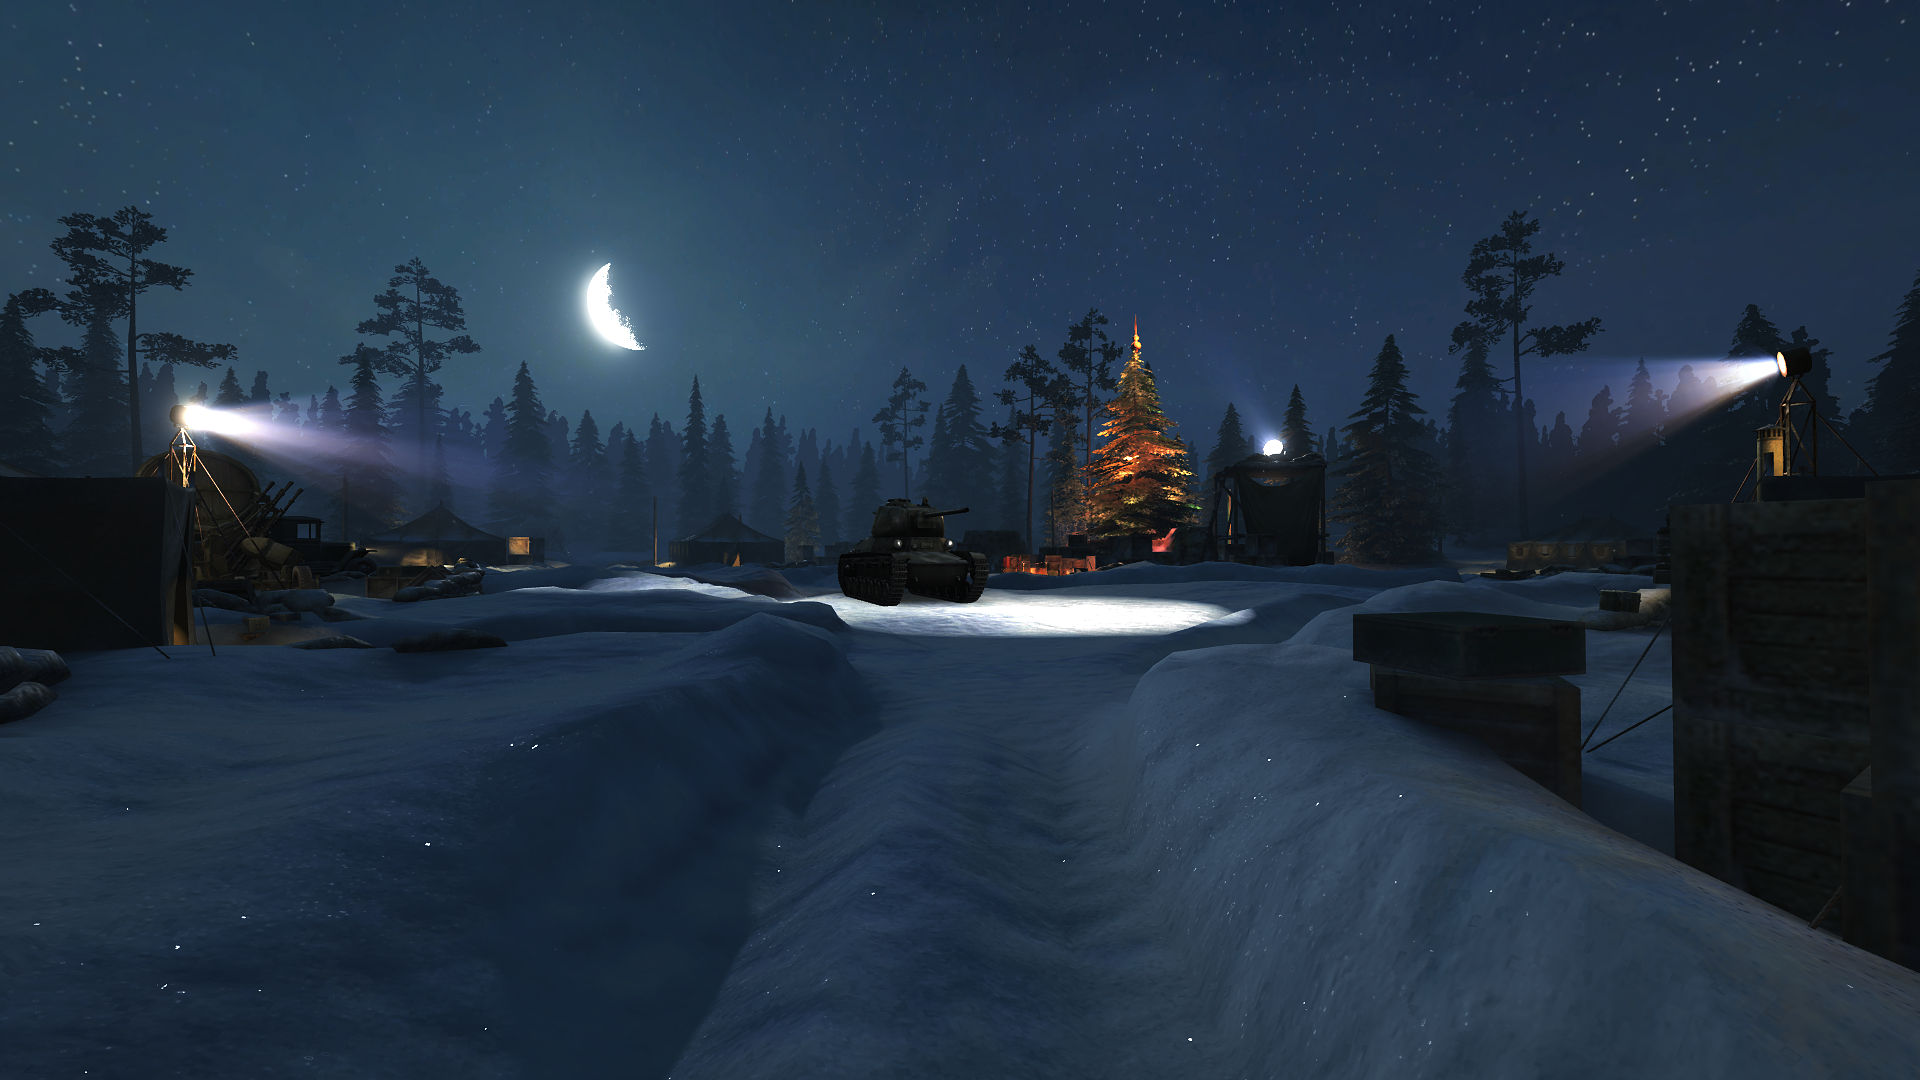
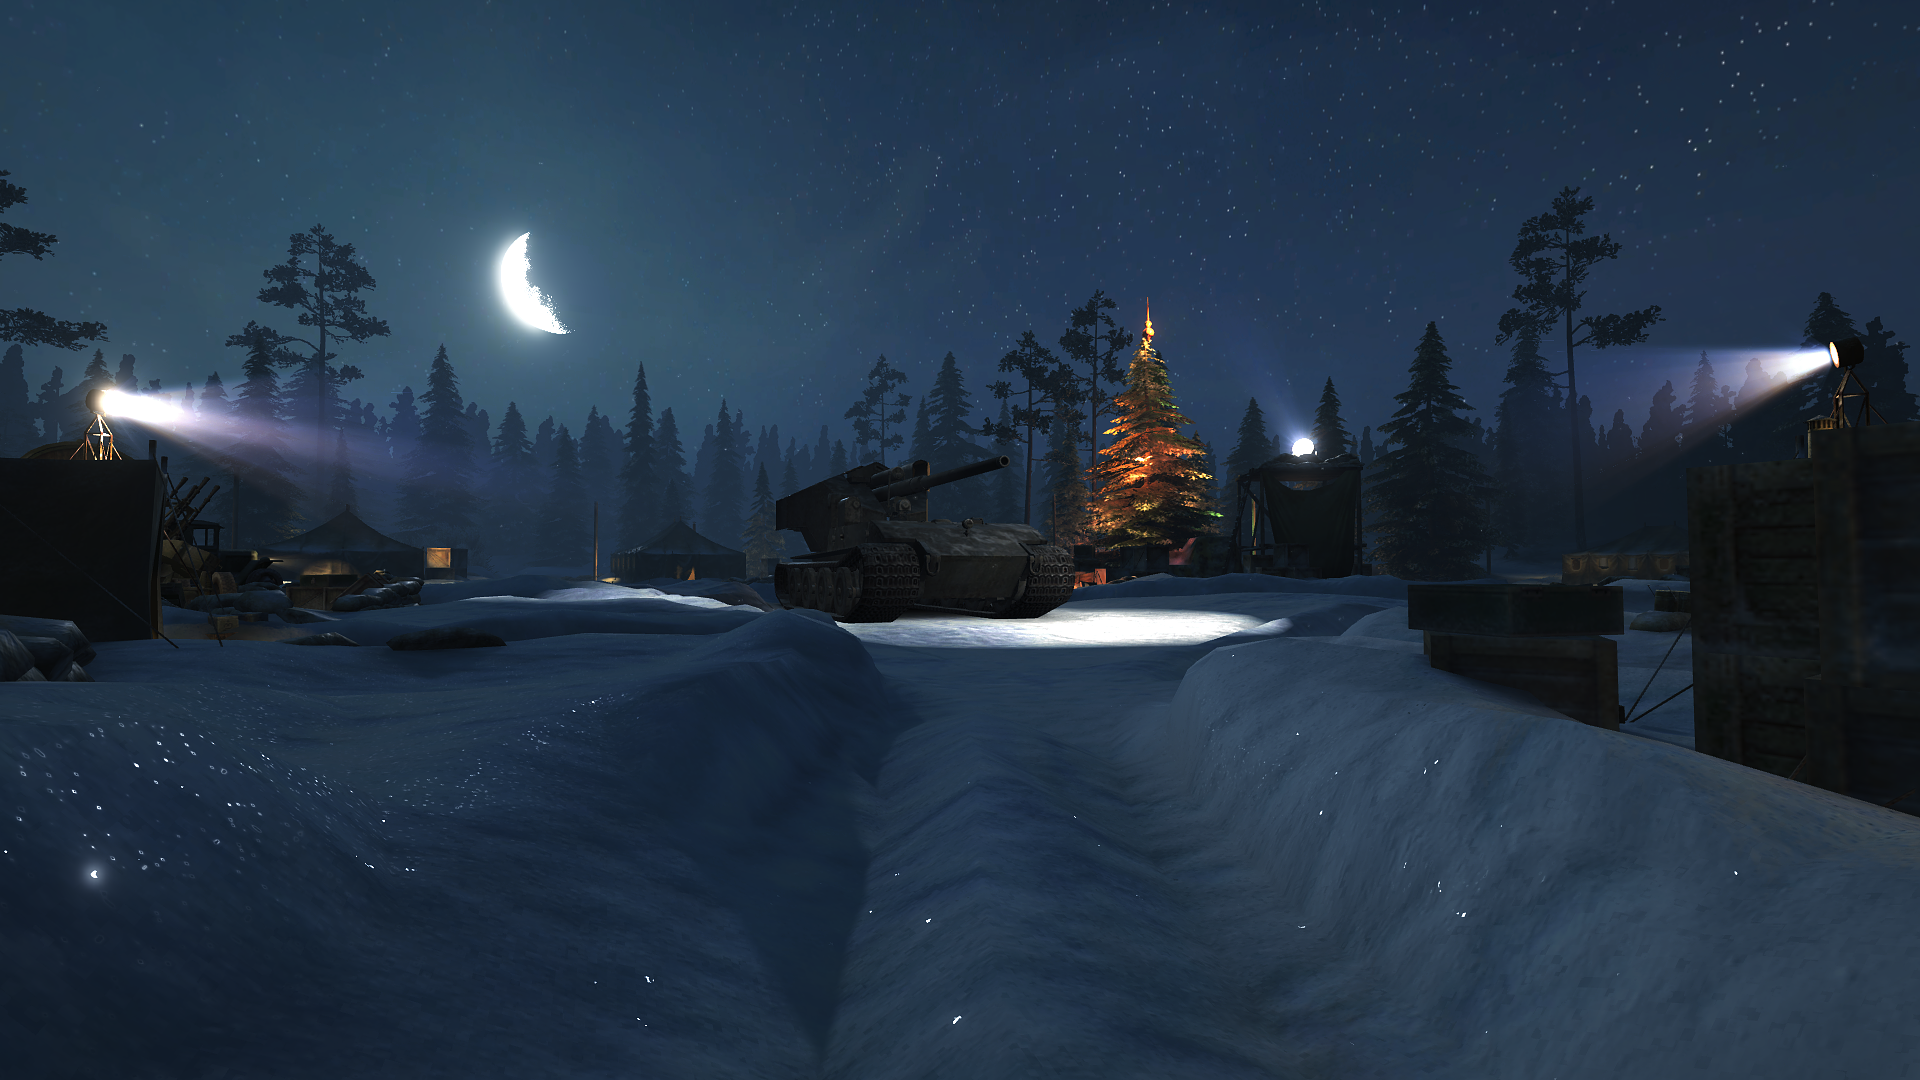
аптудате

diff --git a/_posts/2023-12-01-are-you-ready.md b/_posts/2023-12-01-are-you-ready.md
@@ -2,7 +2,7 @@
 title: 'А ты готов к новому году?'
 date: 2023-12-01
 tags: [important]
-last_modified_at: 2023-12-07 19:00:00 +0300
+last_modified_at: 2023-12-14 19:00:00 +0300
 category: updates
 image: "/assets/img/news/thumbnail/ny.png"
 image_small: "/assets/img/news/image_small/ny.png"
@@ -59,10 +59,10 @@ image_small: "/assets/img/news/image_small/ny.png"
 
 [![сюрпризы]({{ '/assets/img/news/screens/ny10.png' | relative_url}}){: width="100%" }](/assets/img/news/screens/ny10.png)
 
-#### Премиум ангар 2011
+#### Лесной ангар 2012
 
-Здесь ещё интереснее: праздничная версия премиум ангара перенесет вас в теплый и уютный новогодний уголок. На улице гремят салюты, а внутри ангара играет приятная новогодняя музыка. Если вы хотите погреться в уютной обстановке - этот ангар как раз для вас!
+Ну и заканчивает первую часть новогодних сюрпризов тот самый, знакомый всем игрокам World of Tanks лесной ангар. Смех танкистов, рассказывающих анекдоты в палатках, запах вкусной праздничной еды, грохот фейерверков... Кто знает, может, именно их мы и услышим в лесном (или премиум?) ангаре? ;)
 
-[![сюрпризы]({{ '/assets/img/news/screens/ny11.png' | relative_url}}){: width="100%" }](/assets/img/news/screens/ny11.png)
+Мы попытались воссоздать ту самую атмосферу, которая была в далеком 2012, но, конечно же, со своими доработками. Надеемся, что этот ангар наполнит вас новогодним настроением!
 
-*Остался последний...*
+[![сюрпризы]({{ '/assets/img/news/screens/ny12.png' | relative_url}}){: width="100%" }](/assets/img/news/screens/ny12.png)
